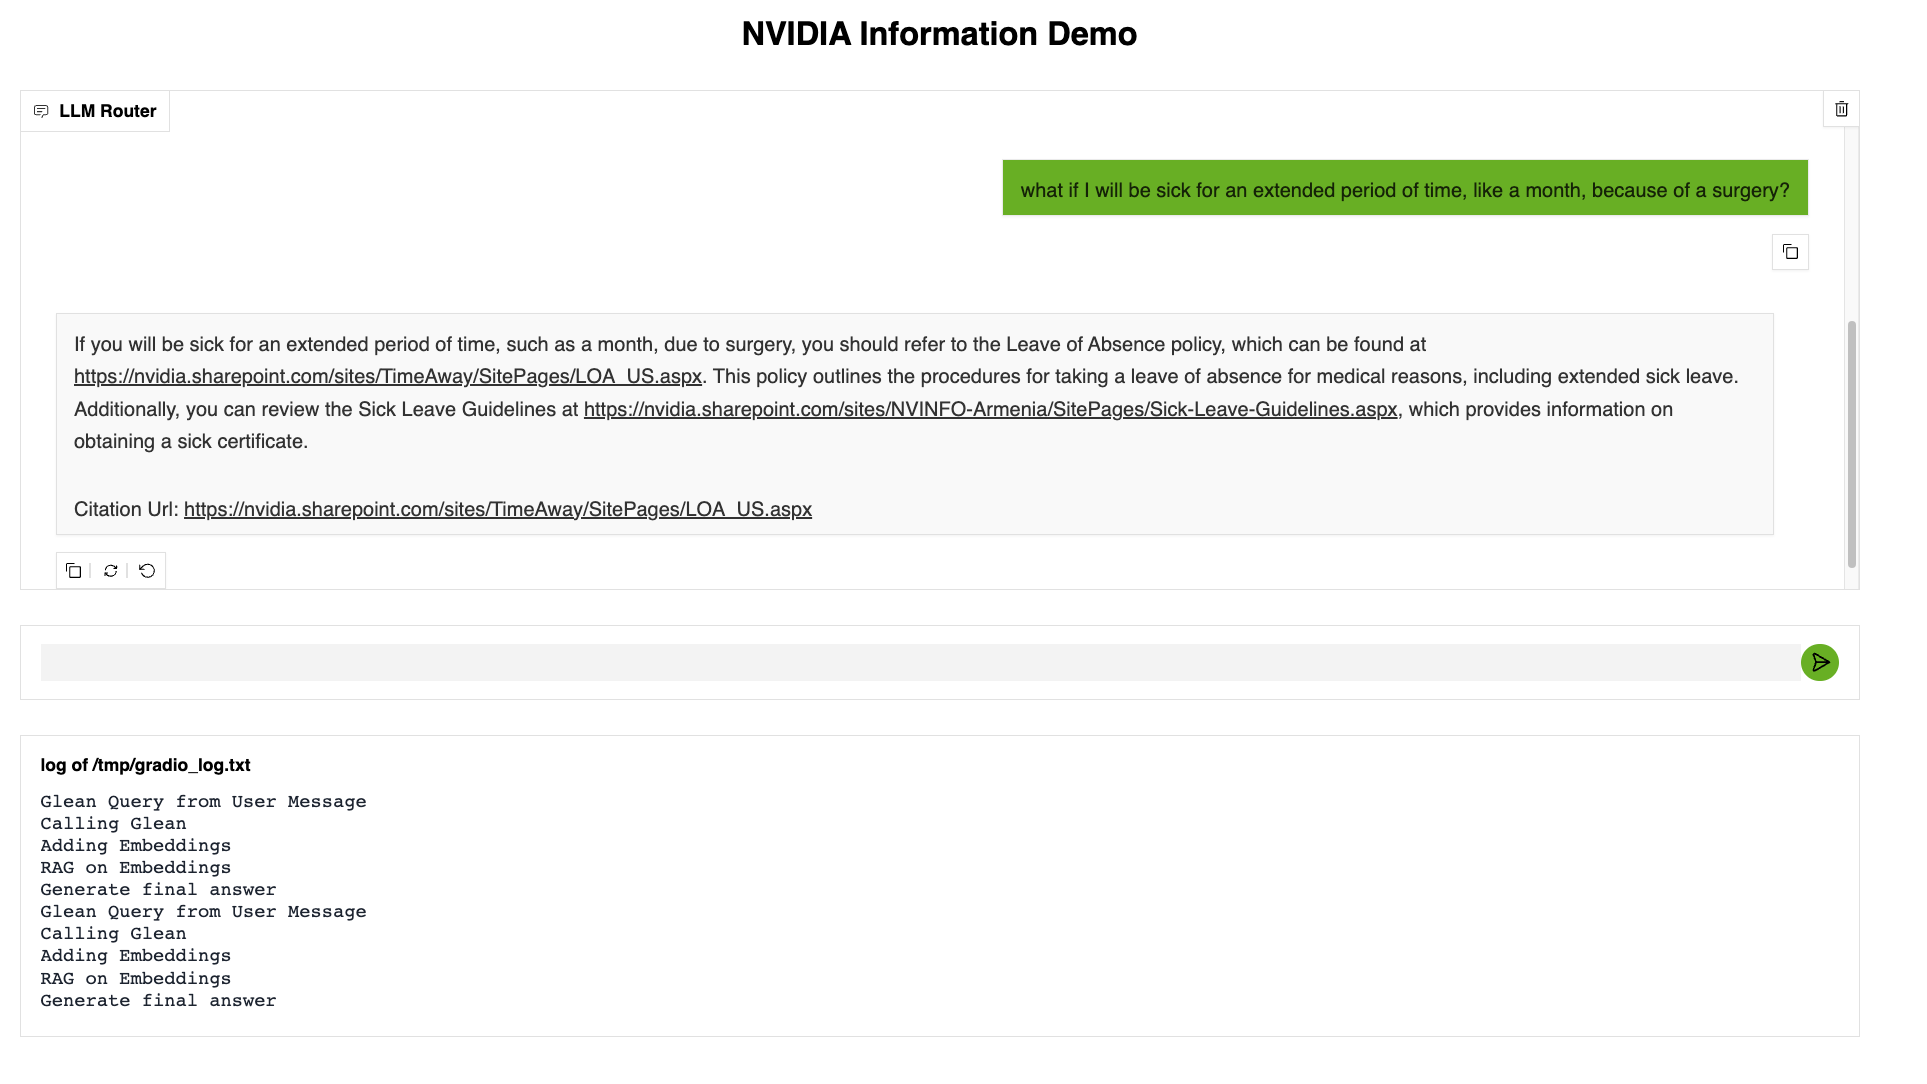
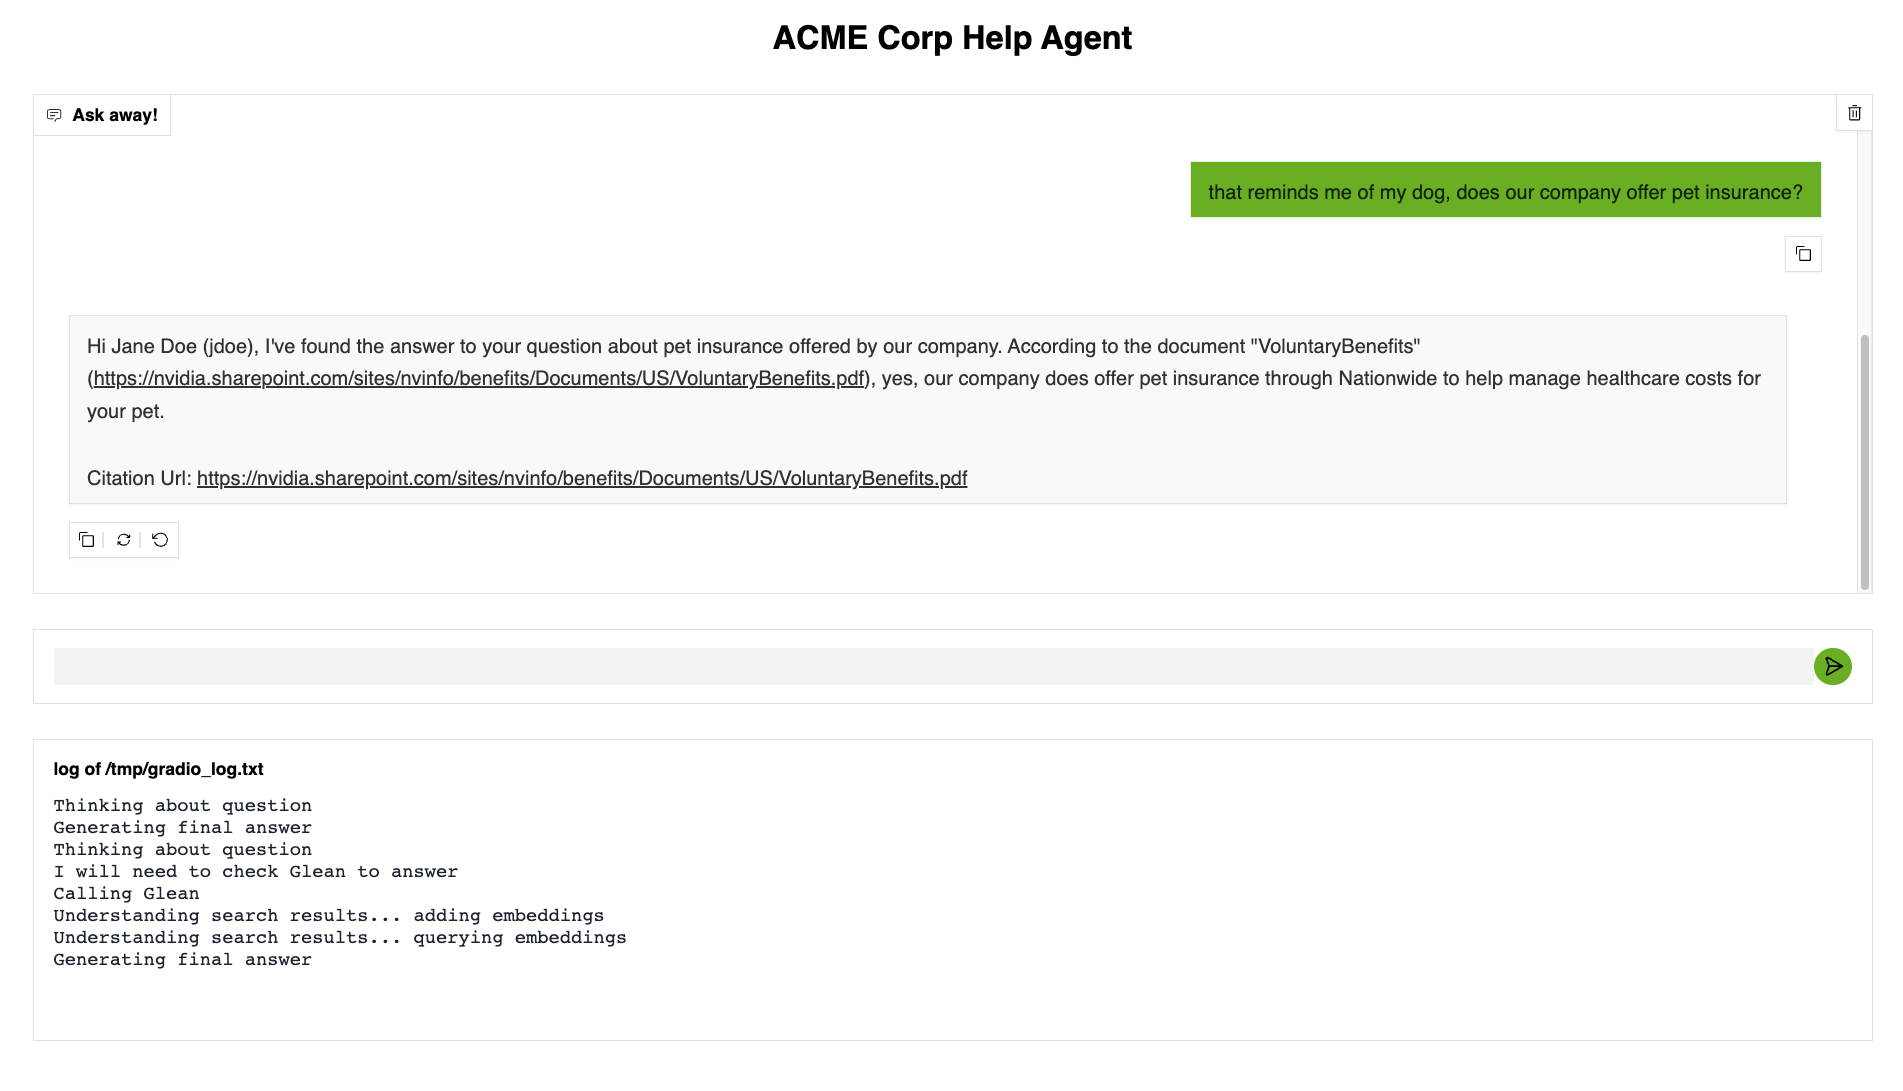
revisions based on feedback

diff --git a/community/chat-and-rag-glean/glean_example/src/agent.py b/community/chat-and-rag-glean/glean_example/src/agent.py
@@ -29,17 +29,70 @@ logger = logging.getLogger("gradio_log")
 
 class InfoBotState(BaseModel):
     messages: List[Tuple[str, str]] = None
-    glean_query: Optional[str] = None
+    glean_query_required: Optional[bool] = None
     glean_results: Optional[List[str]] = None
     db: Optional[Any] = None
     answer_candidate: Optional[str] = None
 
+def determine_user_intent(state: InfoBotState):
+    """parses the user message and determines whether or not to call glean"""
+
+    # in this example the intent mapping is straight forward, either: 
+    #  - determining the question requires context and routing to glean
+    #  - or answering with the LLMs foundational world knowledge
+    # in practice, this initial step could be an agent responsible for many actions such as
+    #  - parsing multi-modal inputs
+    #  - asking the user clarifying questions
+    #  - running the promopt through custom guardrails, eg screening for sensitive HR topics
+    
+    logger.info("Thinking about question")
+    most_recent_message: Tuple[str, str] = state.messages[-1]
+    role, query = most_recent_message
+
+    llm = PROMPT_GLEAN_QUERY | model
+    response = llm.invoke({"query": query})
+
+    if "Yes" in response.content:
+        logger.info("I will need to check Glean to answer")
+        state.glean_query_required = True
+    
+    if "No" in response.content:
+        state.glean_query_required = False
+
+    return state
+
+def enrich_user(state: InfoBotState):
+    """
+    
+    adds user information to the query, eg enriching 'who is my boss' to 
+
+    'who is my boss, the user is Jane Doe with username jdoe'
+    
+    """
+
+    # this is a mock example, a production deployment could source the user
+    # from the application (eg parsing the current oauth session) 
+    # and pass to glean appropriately
+
+    user, msg = state.messages[-1]
+    new_msg = f"{msg} \n \n the user asking the question is Jane Doe with username jdoe"
+    state.messages[-1] = (user, new_msg)
+    return state
+
+def route_glean(state: InfoBotState):
+    if state.glean_query_required:
+        return "enrich_user"
+
+    if not state.glean_query_required:
+        return "summarize_answer"
 
 def call_glean(state: InfoBotState):
     """Call the Glean Search API with a user query and it will return relevant results"""
     logger.info("Calling Glean")
+    most_recent_message: Tuple[str, str] = state.messages[-1]
+    role, query = most_recent_message
     response = glean_search(
-        query=state.glean_query, api_key=glean_api_key, base_url=base_url
+        query=query, api_key=glean_api_key, base_url=base_url
     )
     state.glean_results = documents_from_glean_response(response)
     return state
@@ -47,7 +100,7 @@ def call_glean(state: InfoBotState):
 
 def add_embeddings(state: InfoBotState):
     """Update the vector DB with glean search results"""
-    logger.info("Adding Embeddings")
+    logger.info("Understanding search results... adding embeddings")
     db = Chroma.from_texts(
         state.glean_results, embedding=embeddings, persist_directory=chroma_db_path
     )
@@ -57,7 +110,7 @@ def add_embeddings(state: InfoBotState):
 
 def answer_candidates(state: InfoBotState):
     """Use RAG to get most likely answer"""
-    logger.info("RAG on Embeddings")
+    logger.info("Understanding search results... querying embeddings")
     most_recent_message: Tuple[str, str] = state.messages[-1]
     role, query = most_recent_message
     retriever = state.db.as_retriever(search_kwargs={"k": 1})
@@ -66,30 +119,15 @@ def answer_candidates(state: InfoBotState):
     return state
 
 
-def create_glean_query(state: InfoBotState):
-    """parses the user message and creates an appropriate glean query"""
-    logger.info("Glean Query from User Message")
-    most_recent_message: Tuple[str, str] = state.messages[-1]
-    role, query = most_recent_message
-
-    llm = PROMPT_GLEAN_QUERY | model
-    response = llm.invoke({"query": query})
-
-    state.glean_query = response.content
-
-    return state
-
-
-def call_bot(state: InfoBotState):
+def summarize_answer(state: InfoBotState):
     """the main agent responsible for taking all the context and answering the question"""
-    logger.info("Generate final answer")
+    logger.info("Generating final answer")
 
     llm = PROMPT_ANSWER | model
 
     response = llm.invoke(
         {
             "messages": state.messages,
-            "glean_query": state.glean_query,
             "glean_search_result_documents": state.glean_results,
             "answer_candidate": state.answer_candidate,
         }
@@ -101,18 +139,23 @@ def call_bot(state: InfoBotState):
 # Define the graph
 
 graph = StateGraph(InfoBotState)
-graph.add_node("call_bot", call_bot)
+graph.add_node("determine_user_intent", determine_user_intent)
+graph.add_node("enrich_user", enrich_user)
 graph.add_node("call_glean", call_glean)
-graph.add_node("answer_candidates", answer_candidates)
-graph.add_node("create_glean_query", create_glean_query)
 graph.add_node("add_embeddings", add_embeddings)
-
-graph.add_edge(START, "create_glean_query")
-graph.add_edge("create_glean_query", "call_glean")
+graph.add_node("answer_candidates", answer_candidates)
+graph.add_node("summarize_answer", summarize_answer)
+graph.add_edge(START, "determine_user_intent")
+graph.add_conditional_edges(
+    "determine_user_intent",
+    route_glean, 
+    {"enrich_user": "enrich_user", "summarize_answer": "summarize_answer"}
+)
+graph.add_edge("enrich_user", "call_glean")
 graph.add_edge("call_glean", "add_embeddings")
 graph.add_edge("add_embeddings", "answer_candidates")
-graph.add_edge("answer_candidates", "call_bot")
-graph.add_edge("call_bot", END)
+graph.add_edge("answer_candidates", "summarize_answer")
+graph.add_edge("summarize_answer", END)
 agent = graph.compile()
 
 

diff --git a/community/chat-and-rag-glean/glean_example/src/prompts.py b/community/chat-and-rag-glean/glean_example/src/prompts.py
@@ -2,20 +2,23 @@ from langchain.prompts import PromptTemplate
 
 PROMPT_GLEAN_QUERY_TEMPLATE = """ 
 
-You are part of an agent graph. Your job is to take the user input message and construct a simple and optimized natural language query that will be passed to an API. The API expects a natural language query and returns documents that might answer that query. The documents are sourced from an internal knowledge base at a company.
+You are part of an agent graph. Your job is to take the user input message and decide if access to a company knowledge base is needed to answer the question.
 
 Examples
 
 User Query: how many days off do I get this year?
-Suggested API Query: holiday benefit page
+Answer: Yes
 
 User Query: tell me about the company mission
-Suggested API Query: company mission statement
+Answer: Yes
 
-Please reply with a Suggested API Query for the following User Query. Reply with only the suggested query, nothing else.
+User Query: tell me a funny joke
+Answer: No
+
+Reply with only Yes or No, nothing else.
 
 User Query: {query}
-Suggested API Query: 
+Answer:
 
 """
 
@@ -26,8 +29,6 @@ PROMPT_ANSWER_TEMPLATE = """
 You are the final part of an agent graph. Your job is to answer the user's question based on the information below. Include a url citation in your answer.
 
 Message History: {messages}
-
-Glean Search: {glean_query}
 
 All Supporting Documents from Glean: 
 

diff --git a/community/chat-and-rag-glean/glean_example/src/app/app.py b/community/chat-and-rag-glean/glean_example/src/app/app.py
@@ -6,8 +6,12 @@ from glean_example.src.agent import agent
 from typing import List
 from pathlib import Path
 from gradio_log import Log
+import os
 
 log_file = "/tmp/gradio_log.txt"
+if Path(log_file).exists:
+    os.remove(log_file)
+    
 Path(log_file).touch()
 
 ch = logging.FileHandler(log_file)
@@ -44,13 +48,13 @@ def agent_predict(msg: str, history: List) -> str:
     return response["messages"][-1][1]
 
 
-chatbot = gr.Chatbot(label="NVBot Lite", elem_id="chatbot", show_copy_button=True)
+chatbot = gr.Chatbot(label="Ask away!", elem_id="chatbot", show_copy_button=True)
 
 with gr.Blocks(theme=theme, css=css) as chat:
     chat_interface = gr.ChatInterface(
         fn=agent_predict,
         chatbot=chatbot,
-        title="NVIDIA Information Demo",
+        title="ACME Corp Help Agent",
         autofocus=True,
         fill_height=True,
     )

diff --git a/community/chat-and-rag-glean/README.md b/community/chat-and-rag-glean/README.md
@@ -2,7 +2,7 @@
 
 This repository includes a demo of a simple chat bot that answers questions based on a company's internal knowledge repository. 
 
-![chat_interace_1](./chat_interfaced_1.png)
+![chat_interace_1](./chat_interface_1.png)
 
 
 ![chat_interace_2](./chat_interface_2.png)
@@ -16,7 +16,7 @@ The implementation includes:
 - Chroma DB for a lightweight vector DB
 - An internal knowledge base stored in Glean and available over the Glean Search API
 
-This example uses NVIDIA NIMs which can be hosted completely on-premise, which combined with the Glean on-premise offering, allows organizations to use LLMs for internal knowledge search, chat, and retrieval without any data leaving their environment.
+This example uses NVIDIA NIM microservices which can be hosted completely on-premise or in a company's private cloud, which combined with the Glean cloud-prem offering, allows organizations to create internal knowledge search, chat, and retrieval applications without any data leaving their environment.
 
 The example architecture and possible extensions are shown below.
 
@@ -24,7 +24,7 @@ The example architecture and possible extensions are shown below.
 
 ## Pre-requisites 
 
-This example uses hosted NVIDIA NIMs for the foundational LLMs. In order to use these hosted LLMds you will need a NVIDIA API key which is available at https://build.nvidia.com.
+This example uses hosted NVIDIA NIMs for the foundational LLMs. In order to use these hosted LLMs you will need a NVIDIA API key which is available at https://build.nvidia.com.
 
 ```bash
 export NVIDIA_API_KEY="nvapi-YOUR-KEY"
@@ -82,23 +82,23 @@ The main LLM used is `meta/llama-3.3-70b-instruct`. Update this model name to us
 
 The main embedding model used is `meta/llama-3.2-nv-embedqa-1b-v2`. Update this model name to use a different embedding model.
 
-### Using on-prem 
+### Using in a private network 
 
-You may way to build an application similar to this demo that is hosted on-premise or in your private cloud so that no internal data leaves your systems.
+You may way to build an application similar to this demo that is hosted in your private environment so that no internal data leaves your systems.
 
-- Ensure you are using the [Glean "Cloud-prem" option](https://help.glean.com/en/articles/10093412-glean-deployment-options). Update the `GLEAN_API_BASE_URL` to use your on-prem Glean installation. 
-- Follow the appropriate [NVIDIA NIM deployment guide](https://docs.nvidia.com/nim/large-language-models/latest/deployment-guide.html) for your environment. You will need to deploy at least one NVIDIA NIM foundational LLM and one NVIDIA NIM embedding model. The result of following this guide will be two on-premise URL endpoints.
-- Update the file `glean_example/src/agent.py` to use the on-prem endpoints: 
+- Ensure you are using the [Glean "Cloud-prem" option](https://help.glean.com/en/articles/10093412-glean-deployment-options). Update the `GLEAN_API_BASE_URL` to use your cloud-prem Glean installation. 
+- Follow the appropriate [NVIDIA NIM deployment guide](https://docs.nvidia.com/nim/large-language-models/latest/deployment-guide.html) for your environment. You will need to deploy at least one NVIDIA NIM foundational LLM and one NVIDIA NIM embedding model. The result of following this guide will be two private URL endpoints.
+- Update the file `glean_example/src/agent.py` to use the private endpoints: 
 
     ```python
     model = ChatNVIDIA(
         model="meta/llama-3.3-70b-instruct", 
-        base_url="http://localhost:8000/v1", # Update to the on-prem URL where your NVIDIA NIM is running
+        base_url="http://localhost:8000/v1", # Update to the URL where your NVIDIA NIM is running
         api_key=os.getenv("NVIDIA_API_KEY")
     )
     embeddings = NVIDIAEmbeddings(
         model="nvidia/llama-3.2-nv-embedqa-1b-v2",
-        base_url="http://localhost:8000/v1", # Update to the on-prem URL where your NVIDIA NIM is running
+        base_url="http://localhost:8000/v1", # Update to the URL where your NVIDIA NIM is running
         api_key=os.getenv("NVIDIA_API_KEY"),
         truncate="NONE",
     )
